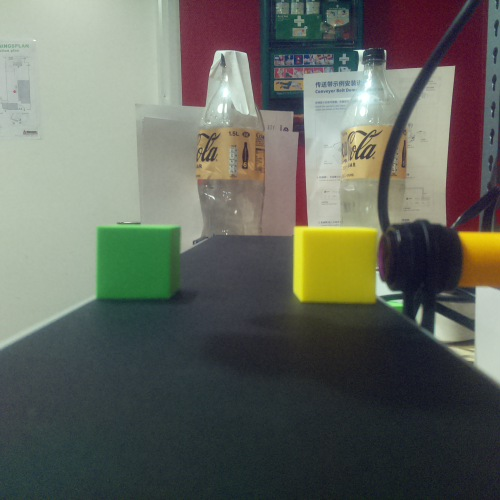
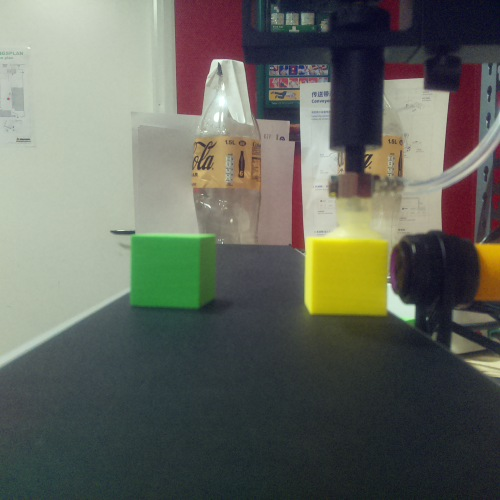
update values

diff --git a/src/position.rs b/src/position.rs
@@ -111,7 +111,7 @@ pub fn move_to_pos_in_grid(fd: i32, x: u8, y: u8) {
 //X: -4.9768615, Y: -107.649376, Z: 22.339325, R: -92.64702
 
 const RULLBAND_START: (f32, f32, f32, f32) = (-4.9768615, -95.0, 22.0, 0.0);
-const RULLBAND_END: (f32, f32, f32, f32) = (-3.374155, -180.0, 22.0, 0.0);
+const RULLBAND_END: (f32, f32, f32, f32) = (-11, -190.0, 22.0, 0.0);
 
 //80
 

diff --git a/src/main.rs b/src/main.rs
@@ -60,8 +60,8 @@ fn main() {
 
         let fd = cbinding::serial_open();
         //pickup_cube(fd);
-        cal(fd);
-        pickup_cube(fd);
+      //  cal(fd);
+     //   pickup_cube(fd);
 
         //        move_to_pos_in_grid(fd, 3, 4);
 
